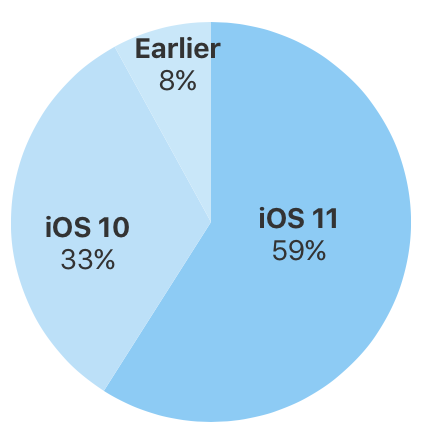
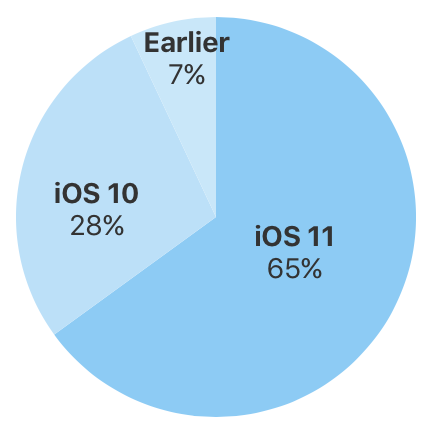
iOS stats update

diff --git a/05-klienci.tex b/05-klienci.tex
@@ -40,14 +40,18 @@ Opis połączenia aplikacji z Firebase, Fabric i innymi bibliotekami.
 \end{figure}
 
 \section*{Aplikacja iOS}
+
+[1] https://developer.apple.com/library/content/documentation/iPhone/Conceptual/iPhoneOSProgrammingGuide/BackgroundExecution/BackgroundExecution.html \\
+[2] Pro Swift, Paul Hudson 04.19.2016 strona 172 link do store na iTunes : https://itunes.apple.com/us/book/pro-swift/id1111033310?mt=11 \\
+
 Aplikacja przeznaczona jest na urządzenia z systemem operacyjnym iOS od wersji 10.0. 
-Nie wspiera ona wcześniejszych wersji ze względu na nowe funkcje, które Apple wprowadziło wraz z pojawieniem się iOS 10.0 (m.in. klasa UNUserNotificationCenter). Jednak 92\% wszystkich obecnych użytkowników tego systemu(rys. 5.1) jest w stanie zainstalować aplikację a liczba ta stale rośnie. Aplikacja wspiera zarówno telefony komórkowe iPhone jak i tablety iPad. 
+Nie wspiera ona wcześniejszych wersji ze względu na nowe funkcje, które Apple wprowadziło wraz z pojawieniem się iOS 10.0 (m.in. klasa UNUserNotificationCenter). Jednak 93\% wszystkich obecnych użytkowników tego systemu(rys. 5.1) jest w stanie zainstalować oprogramowanie a liczba ta stale rośnie. Aplikacja wspiera zarówno telefony komórkowe iPhone jak i tablety iPad. 
 \begin{figure}[h]
 	\centering
 	\includegraphics[width=6cm]{iOSstat}
-	\caption{Udziały wersji systemu iOS w rynku}
+	\caption{Udziały wersji systemu iOS z 18.01.2018 Źródło: https://developer.apple.com/support/app-store/}
 \end{figure}
-Napisana w stosunkowo nowym języku Swift (zaprezentowany przez Apple w 2014r na konferencji WWDC) w oparciu o architekturę MVC (Model-View-Controller) wykorzystując przy tym programowanie reaktywne i funkcjonalne. Aplikacja powstała w programie Xcode. Programowanie reaktywne zrealizowano przy pomocy biblioteki RxSwift. Ten paradygmat programowania związany jest z pojęciem obserwatora i sekwencji obserwowalnych. Każdy obserwator wywołując funkcję 'subscribe' na elemencie obserwowalnym otrzymuje informację o każdej zmianie na tym obiekcie. RxSwift wykorzystano m.in w celu wznowienia streamu obrazu z kamery w momencie przejścia aplikacji z trybu background do trybu foreground. Oznacza to, że po wyjściu z aplikacji, ale pozostawiając ja działającą w tle i po ponownym jej uruchomieniu tracono obraz ze streamu. Przyczyną jest polityka Apple, która nie zaleca aby aplikacje pracowały w tle i domyślnie wyłącza każdą taką aktywność. Ma to na celu przedłużenie żywotności baterii i optymalizacji całego systemu poprzez ograniczenie ilości zajmowanych zasobów [https://developer.apple.com/library/content/documentation/iPhone/Conceptual/iPhoneOSProgrammingGuide/BackgroundExecution/BackgroundExecution.html].  Oczywiście istnieje możliwość włączenia pracy w tle, jednakże konieczne jest aktywowanie trybu "Background Modes" i zaznaczenie konkretnej aktywności, którą chcielibyśmy wykonywać. Lista dozwolonych czynności możliwych do realizacji w tle jest ograniczona (rys. 5.2). 
+Napisana w stosunkowo nowym języku Swift (zaprezentowany przez Apple w 2014r na konferencji WWDC) w oparciu o architekturę MVC (Model-View-Controller) wykorzystując przy tym programowanie reaktywne i funkcjonalne. Aplikacja powstała w programie Xcode. Programowanie reaktywne zrealizowano przy pomocy biblioteki RxSwift. Ten paradygmat programowania związany jest z pojęciem obserwatora i sekwencji obserwowalnych. Każdy obserwator wywołując funkcję 'subscribe' na elemencie obserwowalnym otrzymuje informację o każdej zmianie na tym obiekcie. RxSwift wykorzystano m.in w celu wznowienia streamu obrazu z kamery w momencie przejścia aplikacji z trybu background do trybu foreground. Oznacza to, że po wyjściu z aplikacji, ale pozostawiając ja działającą w tle i po ponownym jej uruchomieniu tracono obraz ze streamu. Przyczyną jest polityka Apple, która nie zaleca aby aplikacje pracowały w tle i domyślnie wyłącza każdą taką aktywność. Ma to na celu przedłużenie żywotności baterii i optymalizacji całego systemu poprzez ograniczenie ilości zajmowanych zasobów [1].  Oczywiście istnieje możliwość włączenia pracy w tle, jednakże konieczne jest aktywowanie trybu "Background Modes" i zaznaczenie konkretnej aktywności, którą chcielibyśmy wykonywać. Lista dozwolonych czynności możliwych do realizacji w tle jest ograniczona (rys. 5.2). 
 \begin{figure}[h]
 	\centering
 	\includegraphics[width=9cm]{backgroundModes}
@@ -73,7 +77,7 @@ let appDelegate = UIApplication.shared.delegate as! AppDelegate
         }).disposed(by: disposeBag)
 \end{verbatim}
 Zmienna 'inBackground', która jest zmienną obserwowalną, ustawiana jest w oddzielnej klasie AppDelegate (klasa, która zapewnie poprawną interakcję z systemem iOS) na wartość true w chwili przejścia do trybu pracy w tle i na wartość false w przeciwnym wypadku. Klasa, w której wywoływany jest funkcja 'subscribe' jest obserwatorem tej zmiennej. Kod wewnątrz funkcji subscribe uruchamiany jest przy każdej zmianie wartości 'inBackground' i wznawia ponownie stream po każdym ponownym uruchomieniu programu.
-"Programowanie funkcjonalne natomiast polega na traktowaniu funkcji jako obiektu. Oznacza to, że mogą być one zapisywane, kopiowane i przekazywane tak samo jak wszystkie inne obiekty. Mogą być używane jako parametry innych funkcji." [Pro Swift, Paul Hudson 04.19.2016 strona 172 link do store na iTunes : https://itunes.apple.com/us/book/pro-swift/id1111033310?mt=11 ]. Wykorzystane są w miejscach gdzie konieczne jest przekształcanie danych:
+"Programowanie funkcjonalne natomiast polega na traktowaniu funkcji jako obiektu. Oznacza to, że mogą być one zapisywane, kopiowane i przekazywane tak samo jak wszystkie inne obiekty. Mogą być używane jako parametry innych funkcji." [2]. Wykorzystane są w miejscach gdzie konieczne jest przekształcanie danych:
 \begin{verbatim}
 lastNotification = notifications.array.sorted(by: { (n1, n2) -> Bool in
 	n1.date > n2.date 
